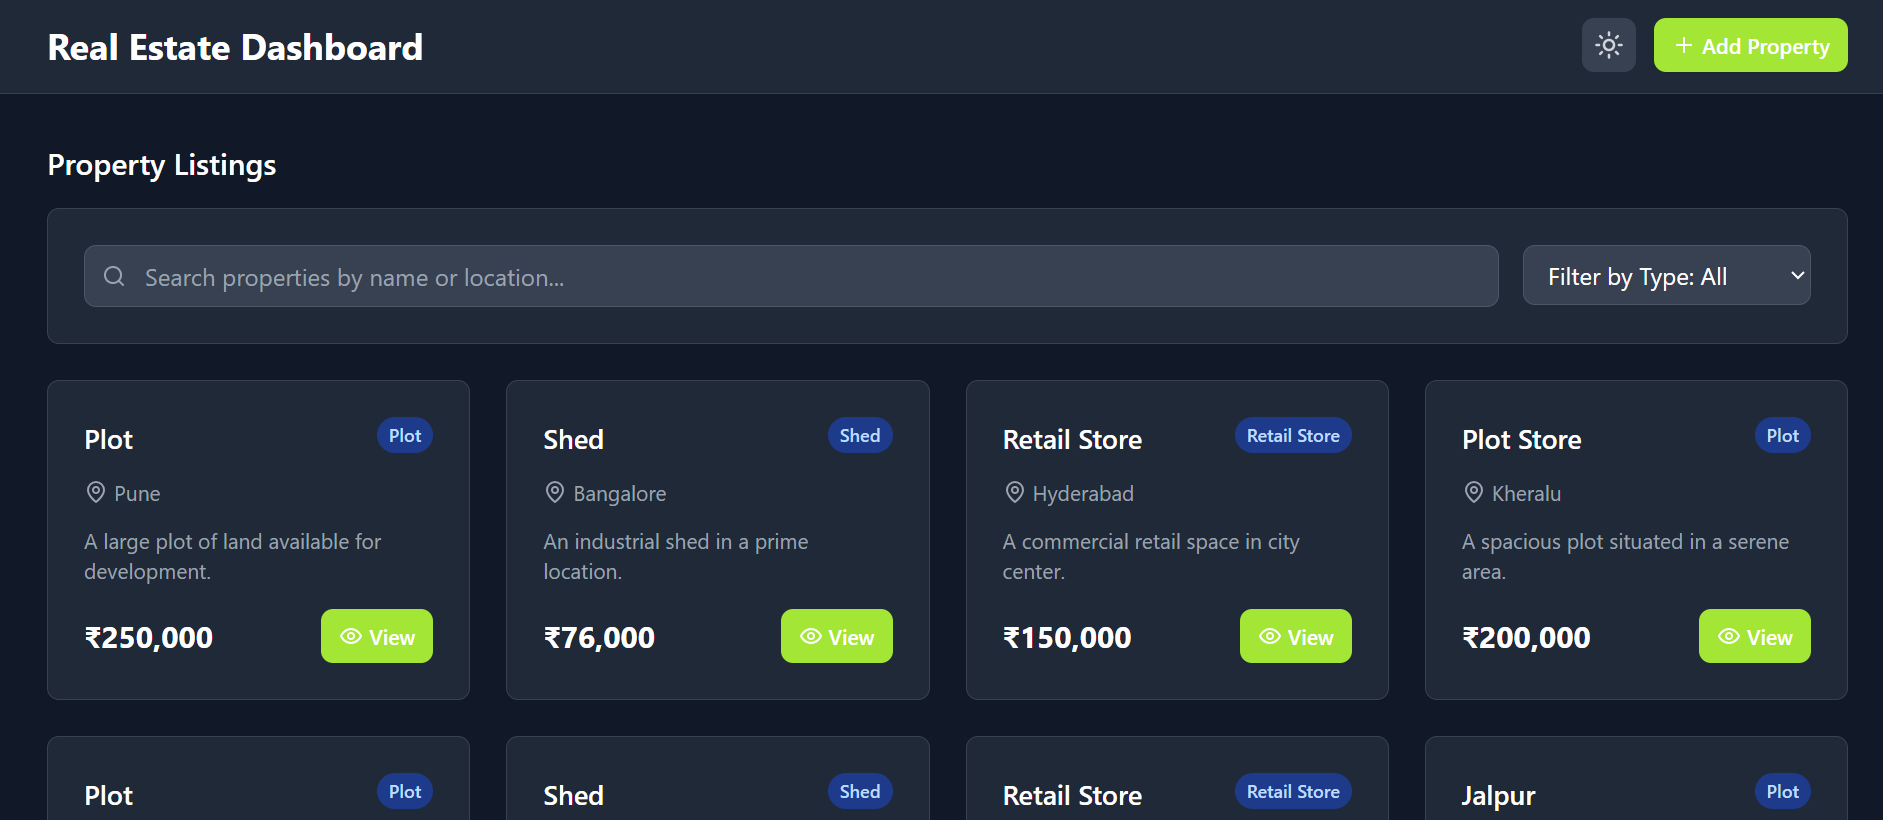
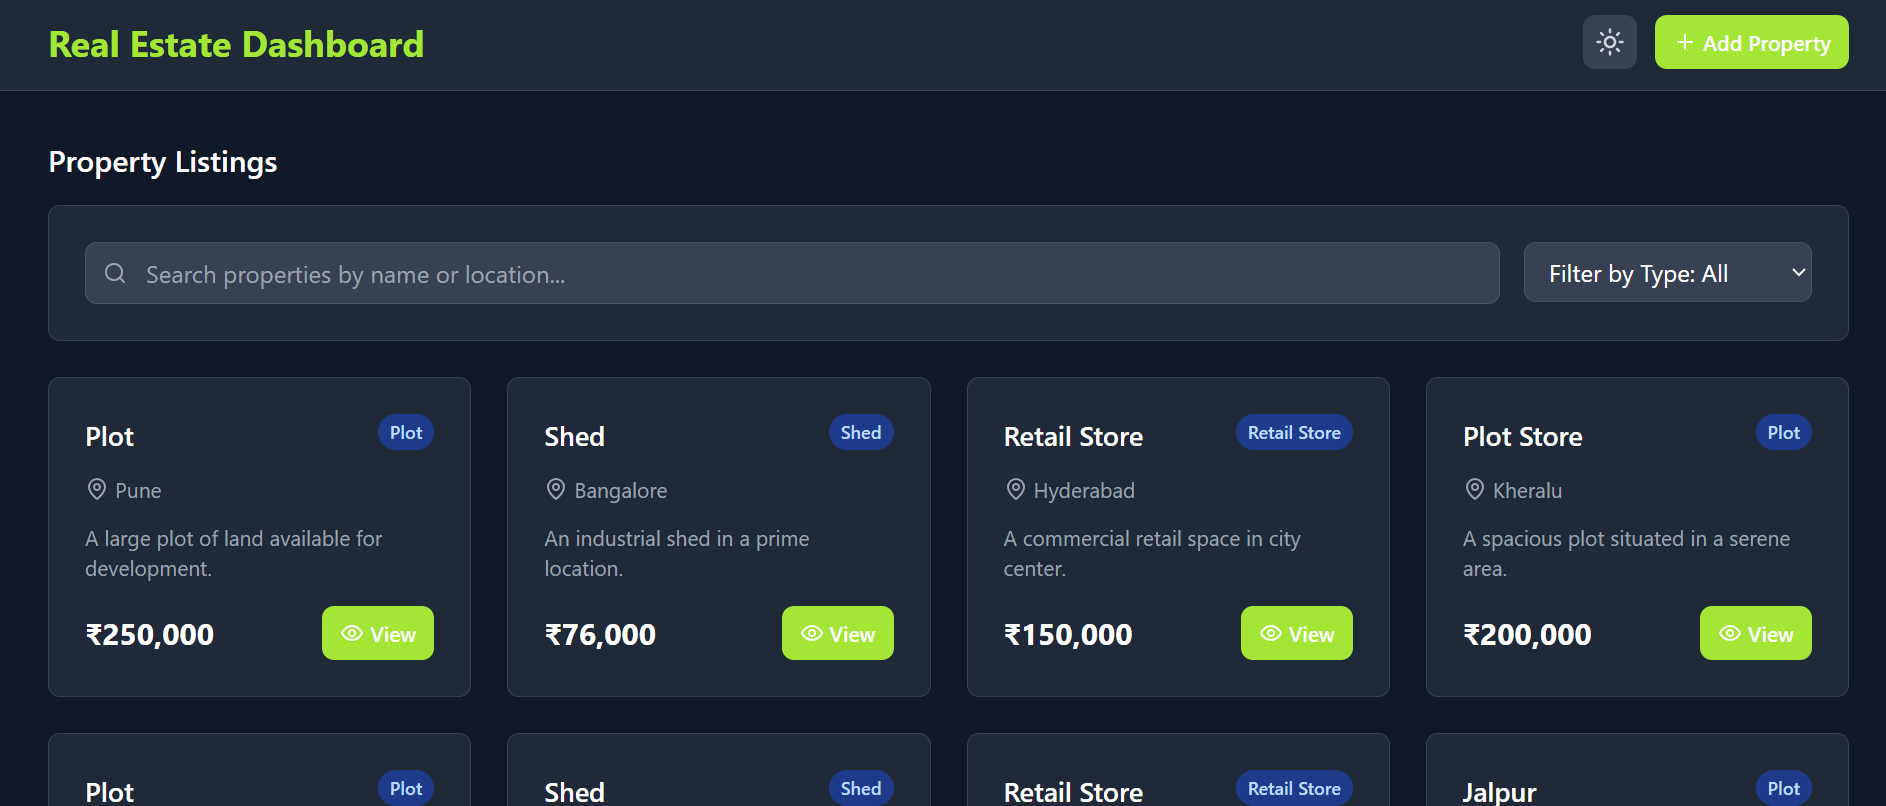
update the header

diff --git a/src/components/Header.tsx b/src/components/Header.tsx
@@ -16,7 +16,7 @@ const Header: React.FC<HeaderProps> = ({ onAddPropertyClick }) => {
           
           {/* Logo / Title */}
           <div className="flex justify-between items-center w-full sm:w-auto">
-            <h1 className="text-2xl font-bold text-lime-400 dark:text-white">
+            <h1 className="text-2xl font-bold text-lime-400 ">
               Real Estate Dashboard
             </h1>
           </div>
